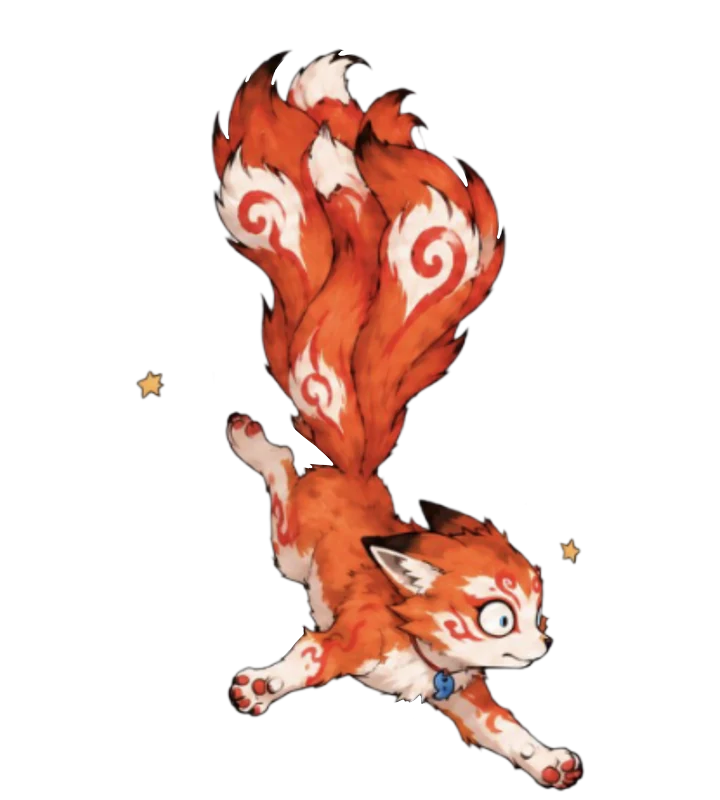
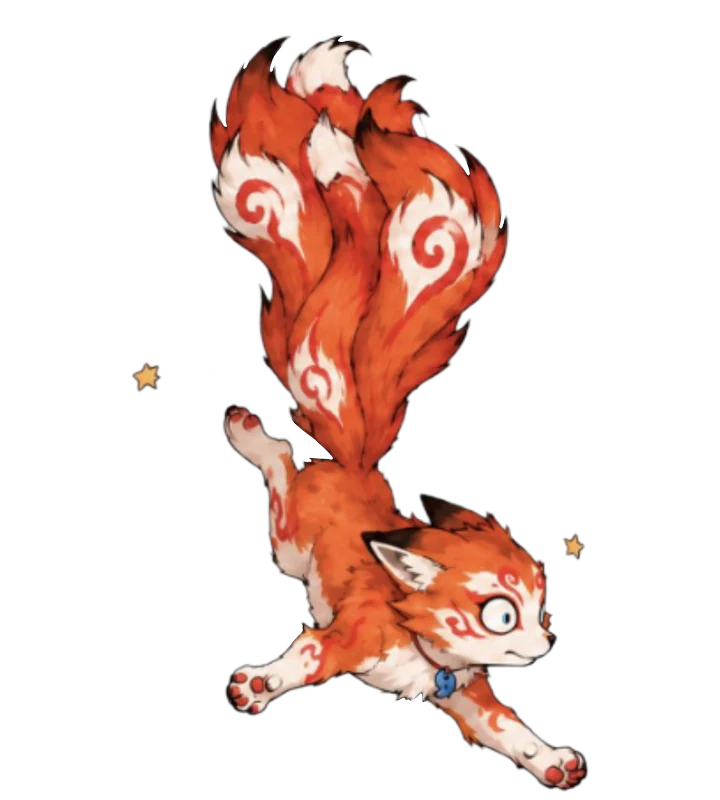
Add files via upload

Changed region(s): [[0.275, 0.0312, 0.825, 1.0], [0.1833, 0.4375, 0.2444, 0.5]]

diff --git a/fox.css b/fox.css
@@ -18,15 +18,15 @@
 
 /* клик и подъём */
 .fox-body.hop{animation:fox-hop .6s cubic-bezier(.2,.7,.3,1)}
-.fox-body.dragging{animation:none;transform-origin:50% 11.6%;filter:drop-shadow(0 22px 16px rgba(0,0,0,.3))}
+.fox-body.dragging{animation:none;transform-origin:50% 12.5%;filter:drop-shadow(0 22px 16px rgba(0,0,0,.3))}
 .fox-body.falling{animation:none;transform-origin:50% 50%}
 .fox-body.thud{animation:fox-thud .55s ease-out}
 .fox-body.shake{animation:fox-shake .5s ease-in-out}
 @keyframes fox-hop{0%{transform:translateY(0) scale(1.03,.94)}30%{transform:translateY(-26px) scale(.97,1.05)}60%{transform:translateY(0) scale(1.03,.96)}100%{transform:translateY(0) scale(1,1)}}
 @keyframes fox-thud{0%{transform:scale(1.12,.78)}35%{transform:scale(.97,1.05)}65%{transform:scale(1.02,.98)}100%{transform:scale(1,1)}}
 @keyframes fox-shake{0%,100%{transform:rotate(0)}20%{transform:rotate(-3deg)}45%{transform:rotate(3deg)}70%{transform:rotate(-1.5deg)}}
-#fox.low .fox-bubble{bottom:calc(66% - 6px)}
-#fox.lift .fox-bubble{bottom:calc(162% + 4px)}
+#fox.low .fox-bubble{bottom:calc(72% - 6px)}
+#fox.lift .fox-bubble{bottom:calc(149% + 4px)}
 
 /* кликабельна только сама лиса, а не весь прозрачный холст */
 .fox-hit{position:absolute;left:34%;top:30%;width:34%;height:62%;border-radius:40%;pointer-events:auto;cursor:grab;touch-action:none;-webkit-touch-callout:none}

diff --git a/fox.js b/fox.js
@@ -204,7 +204,7 @@
   }
   function moveDrag(x, y) {                        // курсор держит лису за загривок (кадр выше обычного, см. ниже)
     const cx = clamp(x, fw() * .25, vw() - fw() * .25), cy = Math.max(20, y);
-    pos = { x: cx, y: Math.min(innerHeight - 8, cy + fw() * (860 - 100) / 720) };   // кадр drag: холст 720×860, загривок в 100 от верха
+    pos = { x: cx, y: Math.min(innerHeight - 8, cy + fw() * (800 - 100) / 720) };   // кадр drag: холст 720×800, загривок в 100 от верха
     place();
   }
   function release() {
